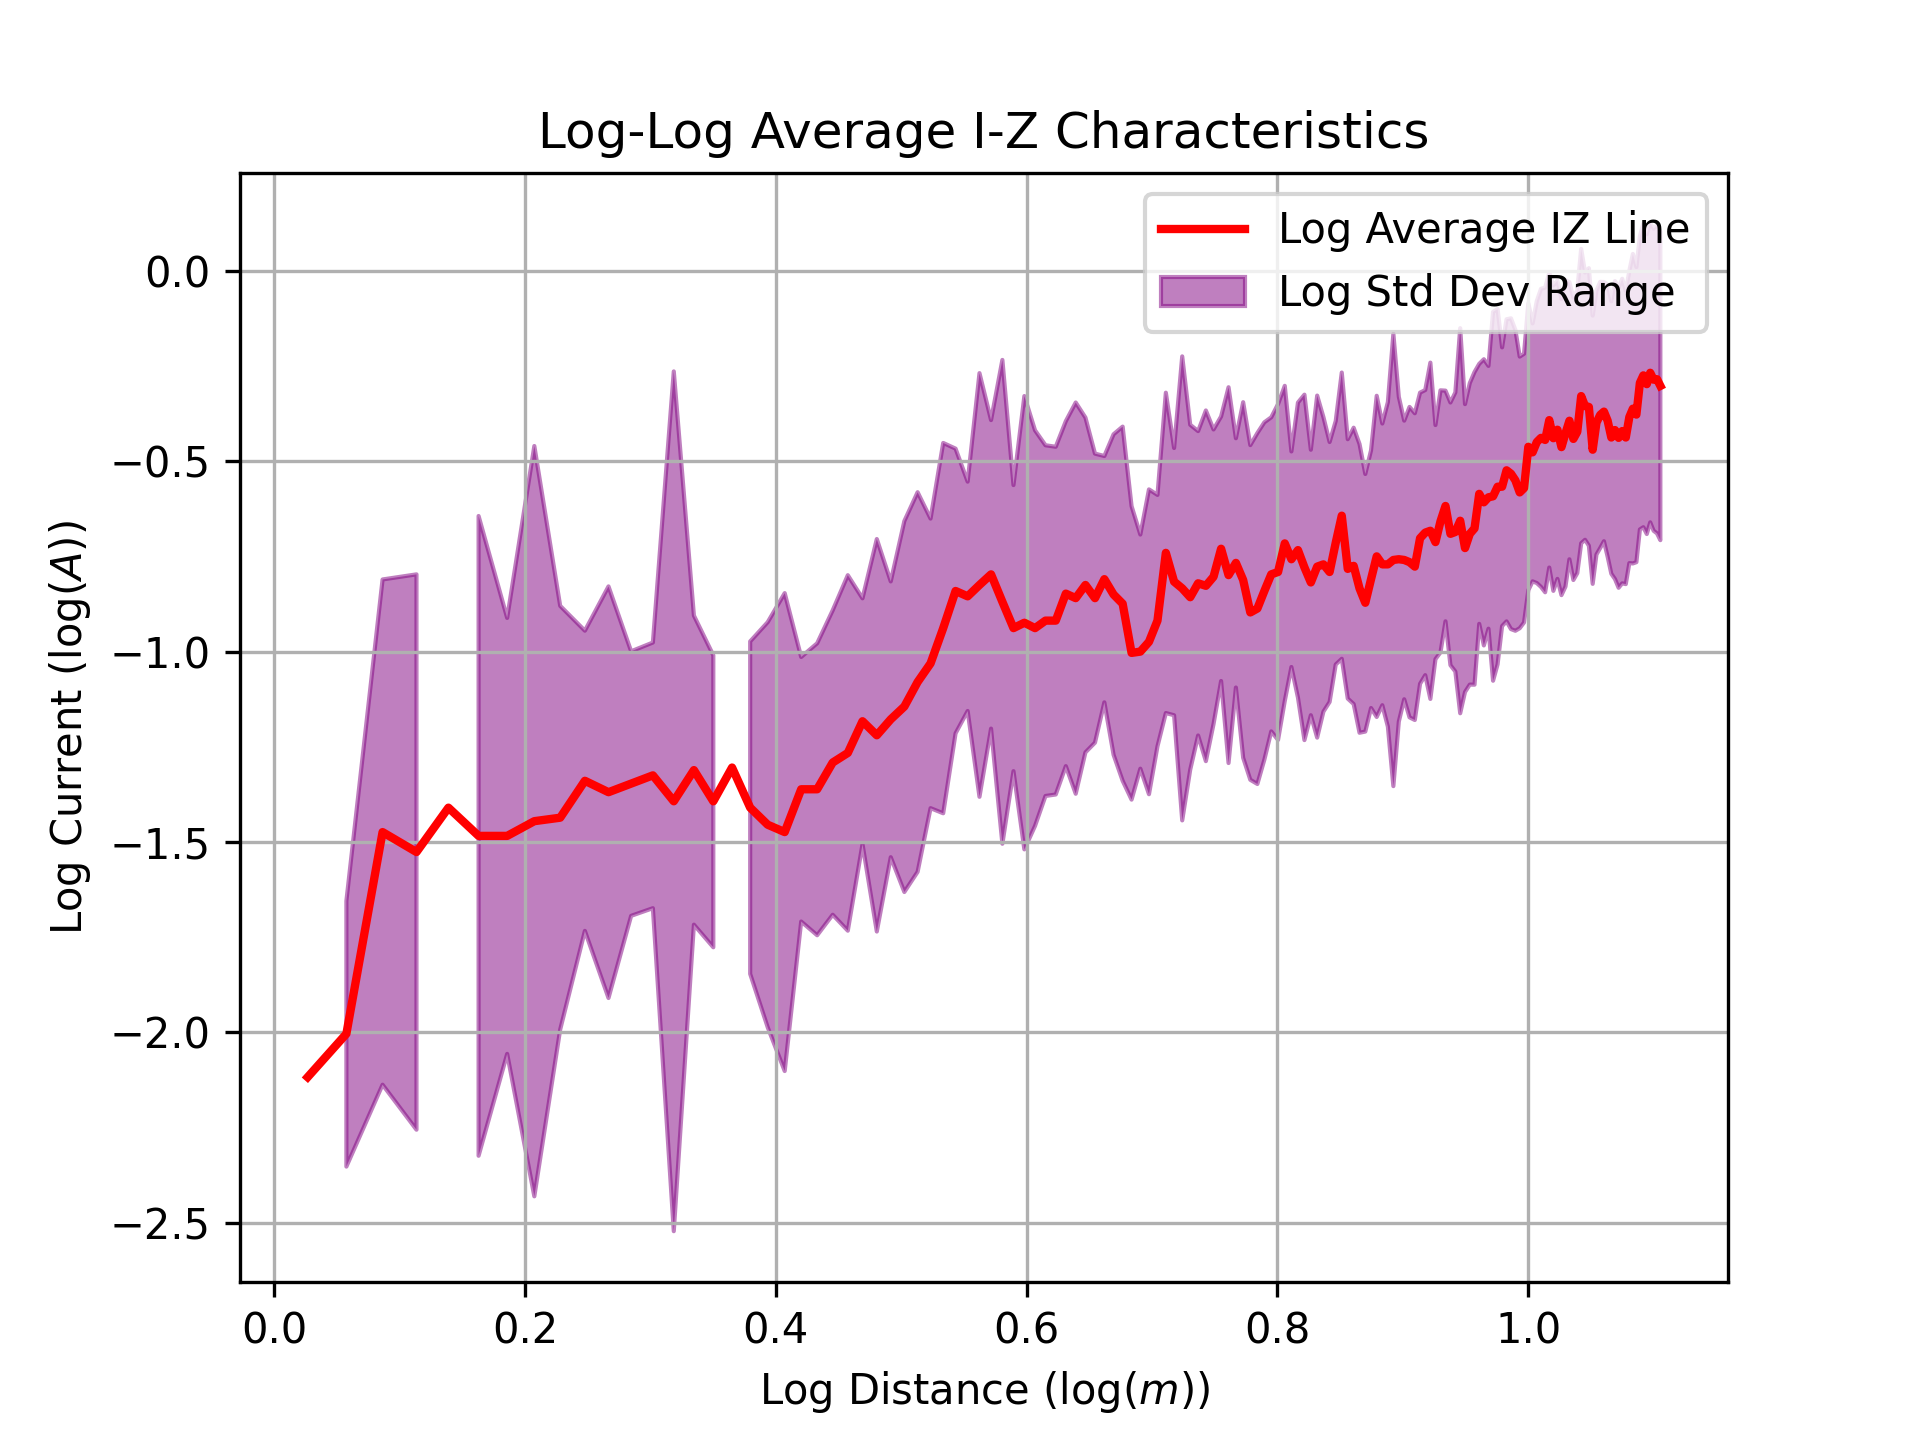
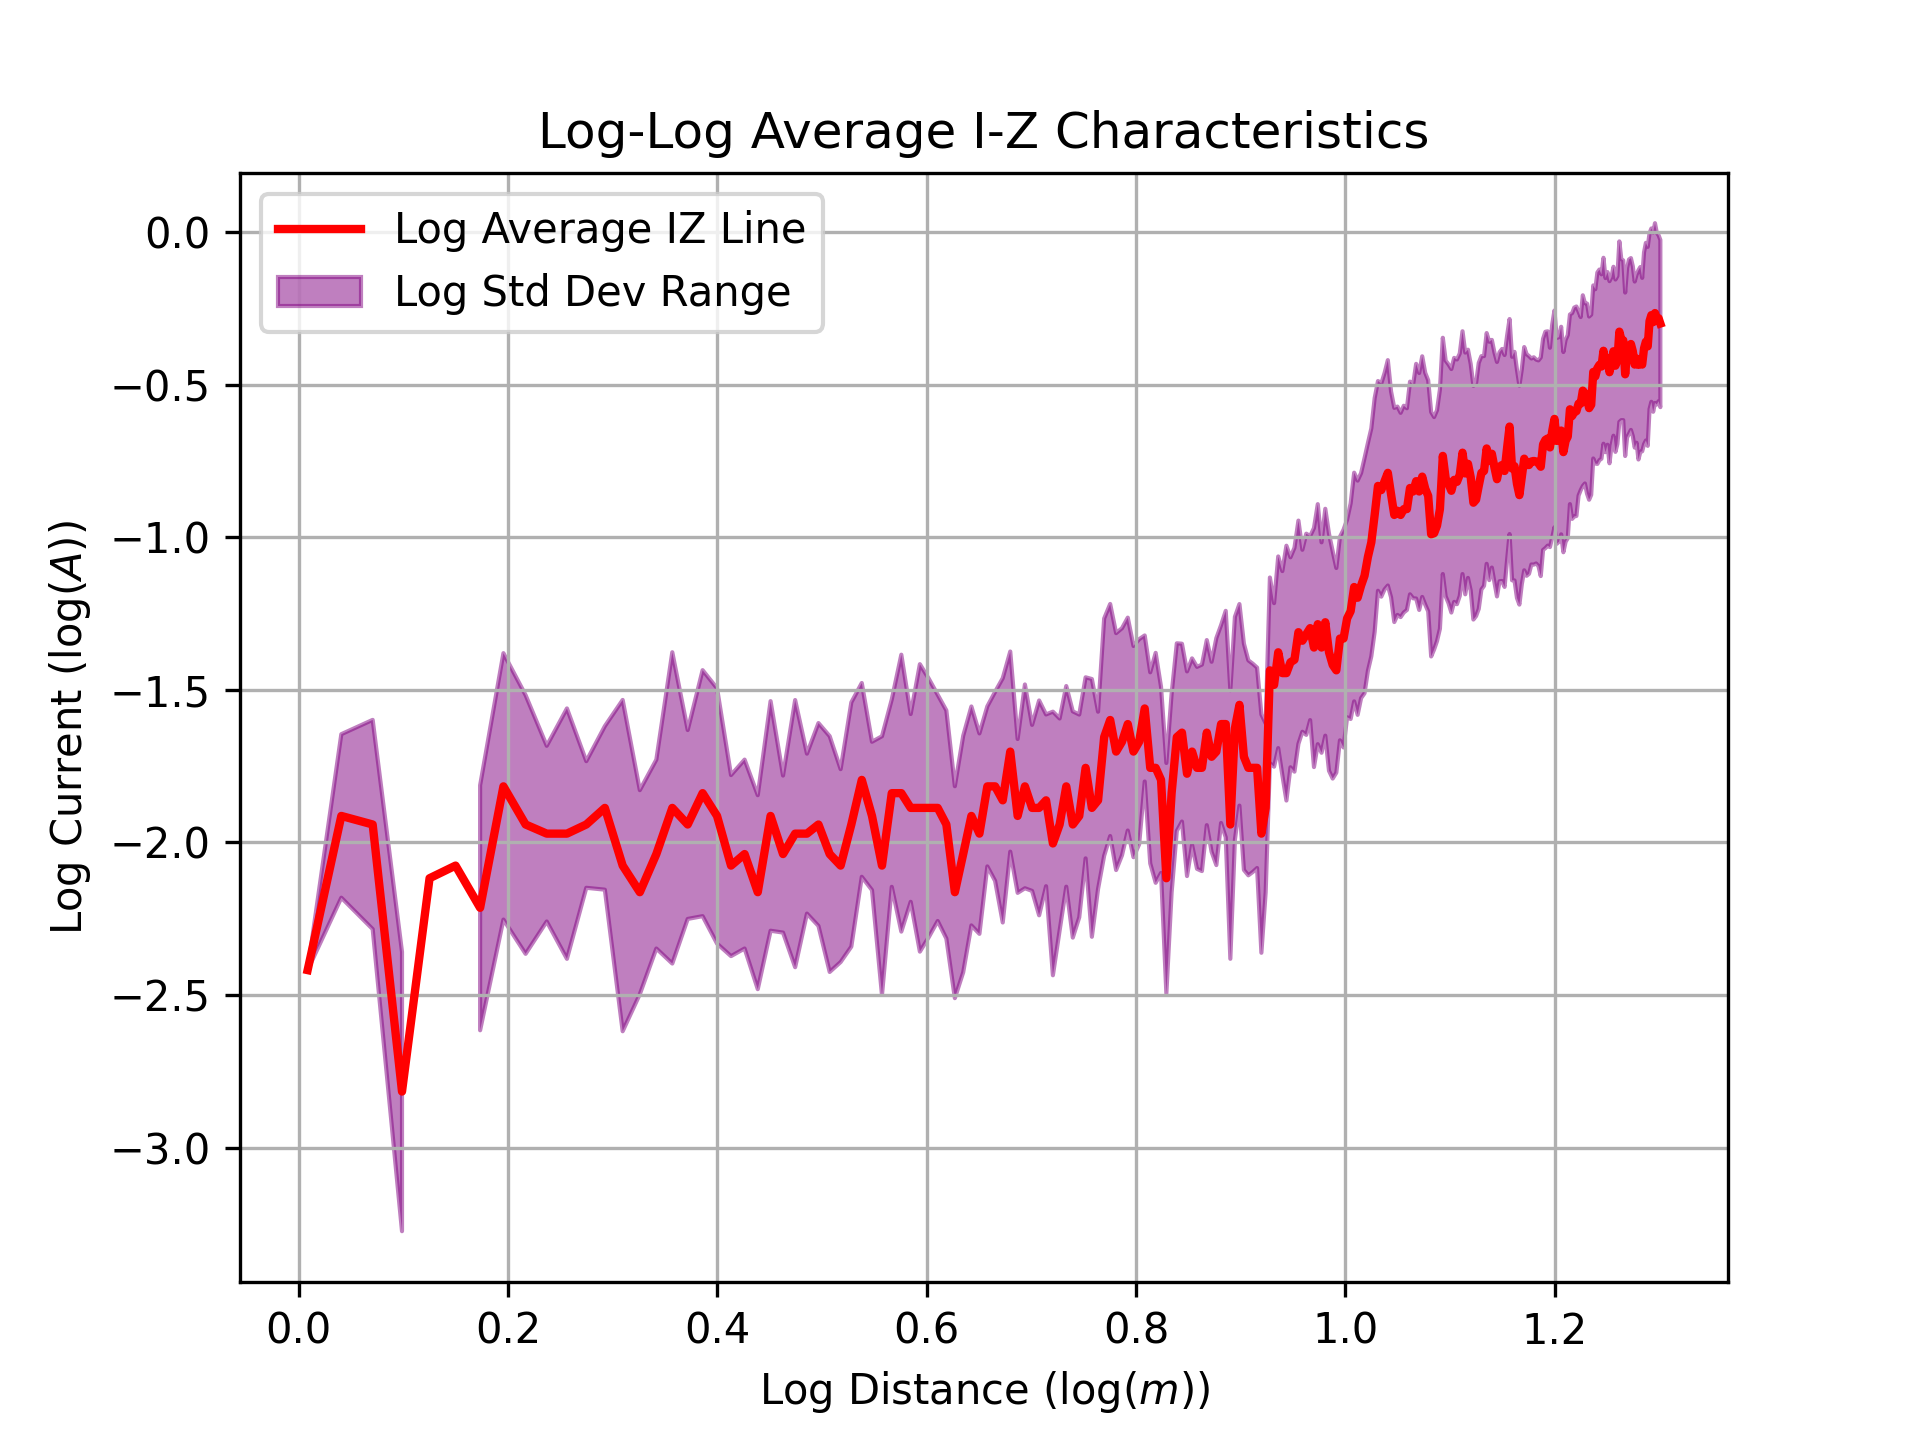
Added and fixed up IZ spectrum ananlysis of the Si sample

diff --git a/IZSpecImproved.py b/IZSpecImproved.py
@@ -1,6 +1,8 @@
 import os
 import pandas as pd
 import numpy as np
+from scipy.interpolate import interp1d
+from scipy.stats import linregress
 
 import matplotlib.pyplot as plt
 directory = 'RawData/IZ_Si'
@@ -83,7 +85,13 @@ std_I_values = [np.std(i)* 1e9 for i in zip(*all_I_values)]
 
 # Plot the average I-Z data with error bars
 
+# Shift all Z values so that they start at 0
+shifted_Z_values = [[z - min(average_Z_values) for z in average_Z_values]]
+shifted_I_values = [[i - min(average_I_values) for i in average_I_values]]
 
+# Update average_Z_values and average_I_values
+average_Z_values = shifted_Z_values[0]
+average_I_values = shifted_I_values[0]
 
 # Plot the average I-Z data
 plt.plot(average_Z_values, average_I_values, 'r-', linewidth=2, label='Average IZ Line')
@@ -114,6 +122,16 @@ log_average_Z_values = filtered_log_Z_values
 log_average_I_values = filtered_log_I_values
 # Calculate the error in log scale
 log_std_I_values = [np.abs(np.log10(avg + std) - np.log10(avg)) for avg, std in zip(average_I_values, std_I_values)]
+# Ensure log_average_Z_values and log_std_I_values are of the same length
+min_length = min(len(log_average_Z_values), len(log_std_I_values))
+log_average_Z_values = log_average_Z_values[:min_length]
+log_std_I_values = log_std_I_values[:min_length]
+
+# Interpolate the log_std_I_values to make it smooth
+interp_func = interp1d(log_average_Z_values, log_std_I_values, kind='linear', fill_value='extrapolate')
+
+# Generate smooth log_std_I_values
+log_std_I_values = interp_func(log_average_Z_values)
 
 # Plot the log-log average I-Z data with error bars
 plt.plot(log_average_Z_values, log_average_I_values, 'r-', linewidth=2, label='Log Average IZ Line')
@@ -147,4 +165,37 @@ plt.title('Log-Log Average I-Z Characteristics with Linear Fit')
 plt.legend()
 plt.grid(True)
 plt.savefig('Produced_Plots/Silicon/Log_Average_IZ_Line_with_Fit.png', dpi=300)
+plt.show() 
+
+log_average_Z_values = np.array(log_average_Z_values)
+log_average_I_values = np.array(log_average_I_values)
+
+
+valid_indices = np.where(log_average_Z_values >= 0.8)
+possible_Z_vals = []
+valid_Z = log_average_Z_values[valid_indices]
+valid_I = log_average_I_values[valid_indices]
+# Perform a linear fit to the valid log-log data
+valid_slope, valid_intercept = np.polyfit(valid_Z, valid_I, 1)
+
+# Generate fitted line data for the valid range
+valid_fitted_I = valid_slope * valid_Z + valid_intercept
+
+plt.plot(valid_Z,valid_I,'o',markersize = 2,label='Log Average IZ Line')
+plt.plot(valid_Z,valid_fitted_I,label='Fitted Line')
+plt.fill_between(valid_Z,valid_I-log_std_I_values[valid_indices],valid_I+log_std_I_values[valid_indices],color='purple',alpha=0.5,label='Log Std Dev Range')
+plt.xlabel('Log Distance (log(m))')
+plt.ylabel('Log Current (log(A))')
+plt.title('Log-Log Average I-Z Characteristics with Linear Fit')
+plt.legend()
+plt.grid(True)
+plt.savefig('Produced_Plots/Silicon/Log_Average_IZ_Line_with_Fit_Valid.png', dpi=300)
 plt.show()
+
+# Calculate the errors in the fit parameters
+
+slope, intercept, r_value, p_value, std_err = linregress(valid_Z, valid_I)
+
+# Print the fit line parameters with their errors
+print(f"Slope: {slope:.4f} ± {std_err:.4f}")
+print(f"Intercept: {intercept:.4f}")
